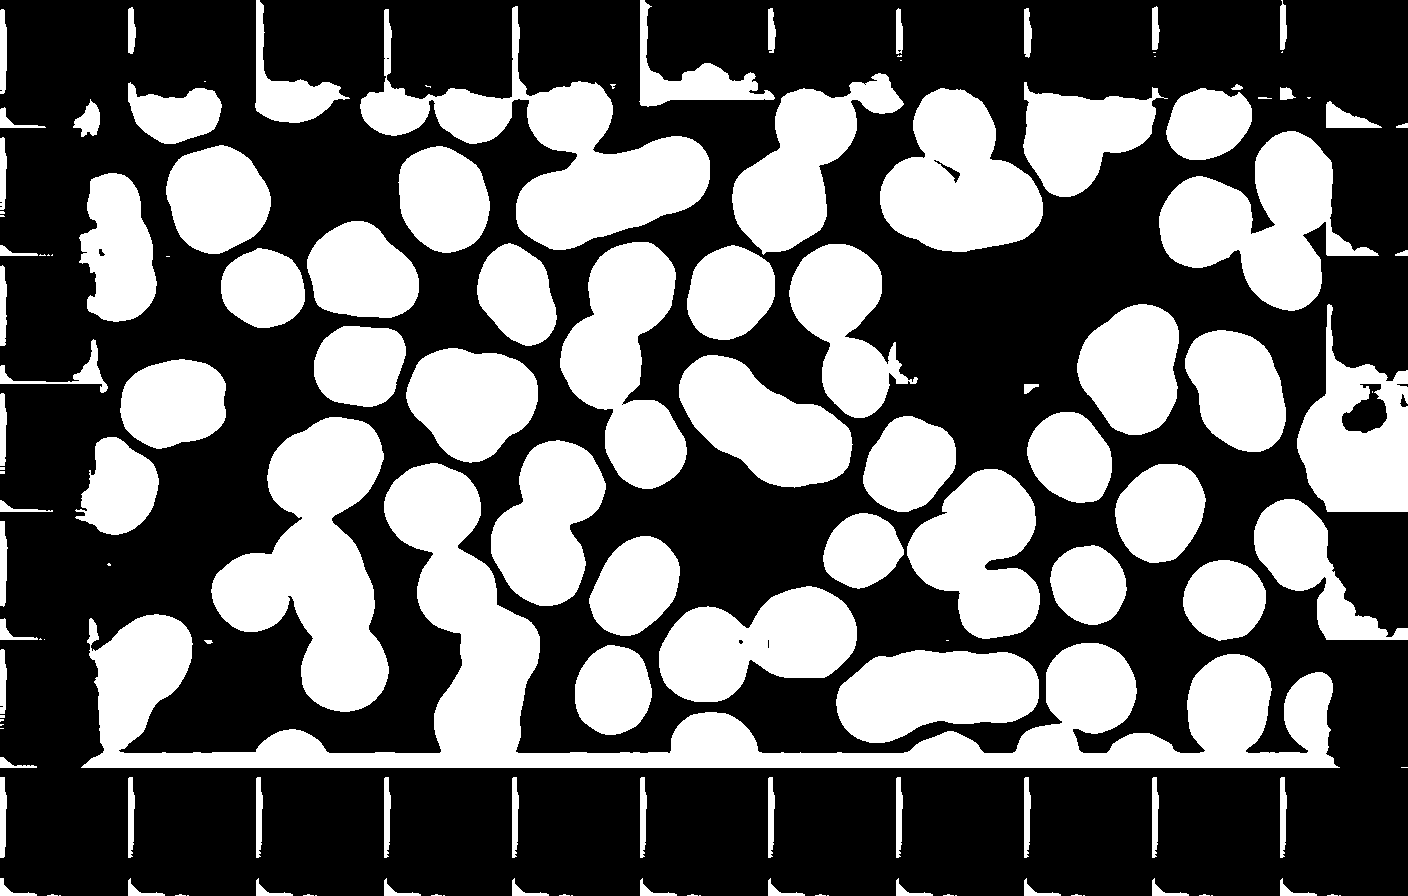
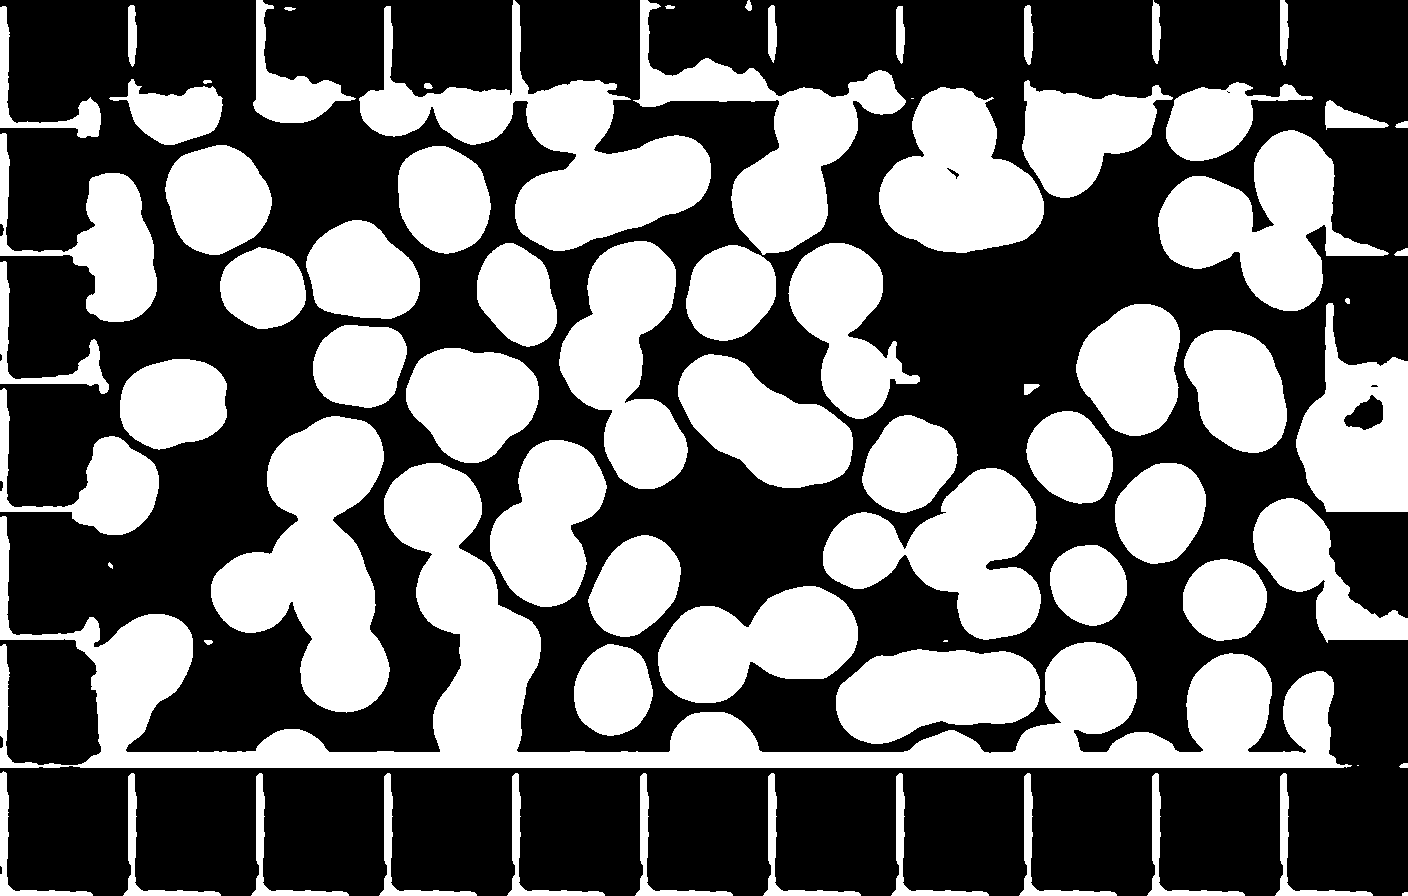
Updated output images!

diff --git a/src/run.py b/src/run.py
@@ -167,9 +167,9 @@ def predict(img='Im037_0.jpg',
     new_edge = concat(new_edge_chips)
 
     # save predicted mask and edge
-    plt.imsave('output/mask.png', new_mask, cmap='gray')
-    plt.imsave('output/edge.png', new_edge, cmap='gray')
-    plt.imsave('output/edge_mask.png', new_mask - new_edge, cmap='gray')
+    plt.imsave('output/mask.png', new_mask)
+    plt.imsave('output/edge.png', new_edge)
+    plt.imsave('output/edge_mask.png', new_mask - new_edge)
 
     # denoise all the output images
     new_mask = denoise('output/mask.png')
@@ -177,9 +177,9 @@ def predict(img='Im037_0.jpg',
     edge_mask = denoise('output/edge_mask.png')
 
     # save predicted mask and edge after denoising
-    plt.imsave('output/mask.png', new_mask, cmap='gray')
-    plt.imsave('output/edge.png', new_edge, cmap='gray')
-    plt.imsave('output/edge_mask.png', edge_mask, cmap='gray')
+    plt.imsave('output/mask.png', new_mask)
+    plt.imsave('output/edge.png', new_edge)
+    plt.imsave('output/edge_mask.png', edge_mask)
 
     # organize results into one figure
     fig = plt.figure(figsize=(25, 12), dpi=80)
@@ -281,8 +281,8 @@ def hough_transform(img='edge.png'):
         for (x, y, r) in circles:
             # draw the circle in the output image, then draw a rectangle
             # corresponding to the center of the circle
-            cv2.circle(output, (x, y), r, (0, 255, 0), 4)
-            cv2.rectangle(output, (x - 5, y - 5), (x + 5, y + 5), (0, 128, 255), -1)
+            cv2.circle(output, (x, y), r, (0, 0, 255), 8)
+            cv2.rectangle(output, (x - 5, y - 5), (x + 5, y + 5), (0, 0, 255), -1)
         # save the output image
         plt.imsave('output/hough_transform.png',
                    np.hstack([img, output]))
@@ -353,7 +353,7 @@ def distance_transform(img='threshold_edge_mask.png'):
 if __name__ == '__main__':
     # train('mse_unsupervised')
     # evaluate(model_name='mse')
-    # predict(model_name='mse')
+    predict(model_name='mse')
     threshold('mask.png')
     threshold('edge.png')
     threshold('edge_mask.png')
